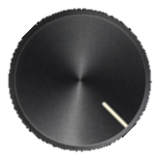
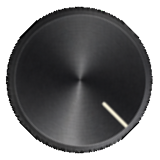
fix(ui): calibrate narrow EQ socket centres and meter slot

Changed region(s): [[0.0312, 0.0312, 0.9062, 0.9688], [0.9062, 0.3125, 0.9688, 0.6875], [0.8125, 0.1875, 0.9062, 0.3125]]

diff --git a/ui_concept/preview_eq_module.py b/ui_concept/preview_eq_module.py
@@ -37,8 +37,8 @@ class EqChannelConcept:
     PANEL = (60, 30, 300, 635)
     METER_X = 118
     KNOB_X = 217
-    KNOB_YS = (128, 268, 406, 539)
-    SOCKET_R = 43
+    KNOB_YS = (127, 265, 402, 539)
+    SOCKET_R = 50
     KNOB_R = 36
 
     BANDS = ("TRIM", "HIGH", "MID", "LOW")
@@ -119,8 +119,8 @@ class EqChannelConcept:
     def _draw_meter(self, level: float) -> None:
         """Draw individual recessed LED lenses, not a flat colour ladder."""
         c = self.canvas
-        segments, seg_h, gap = 22, 14, 7
-        bottom = 585
+        segments, seg_h, gap = 22, 15, 8
+        bottom = 596
         lit = round(level * segments)
         for index in range(segments):
             y2 = bottom - index * (seg_h + gap)
